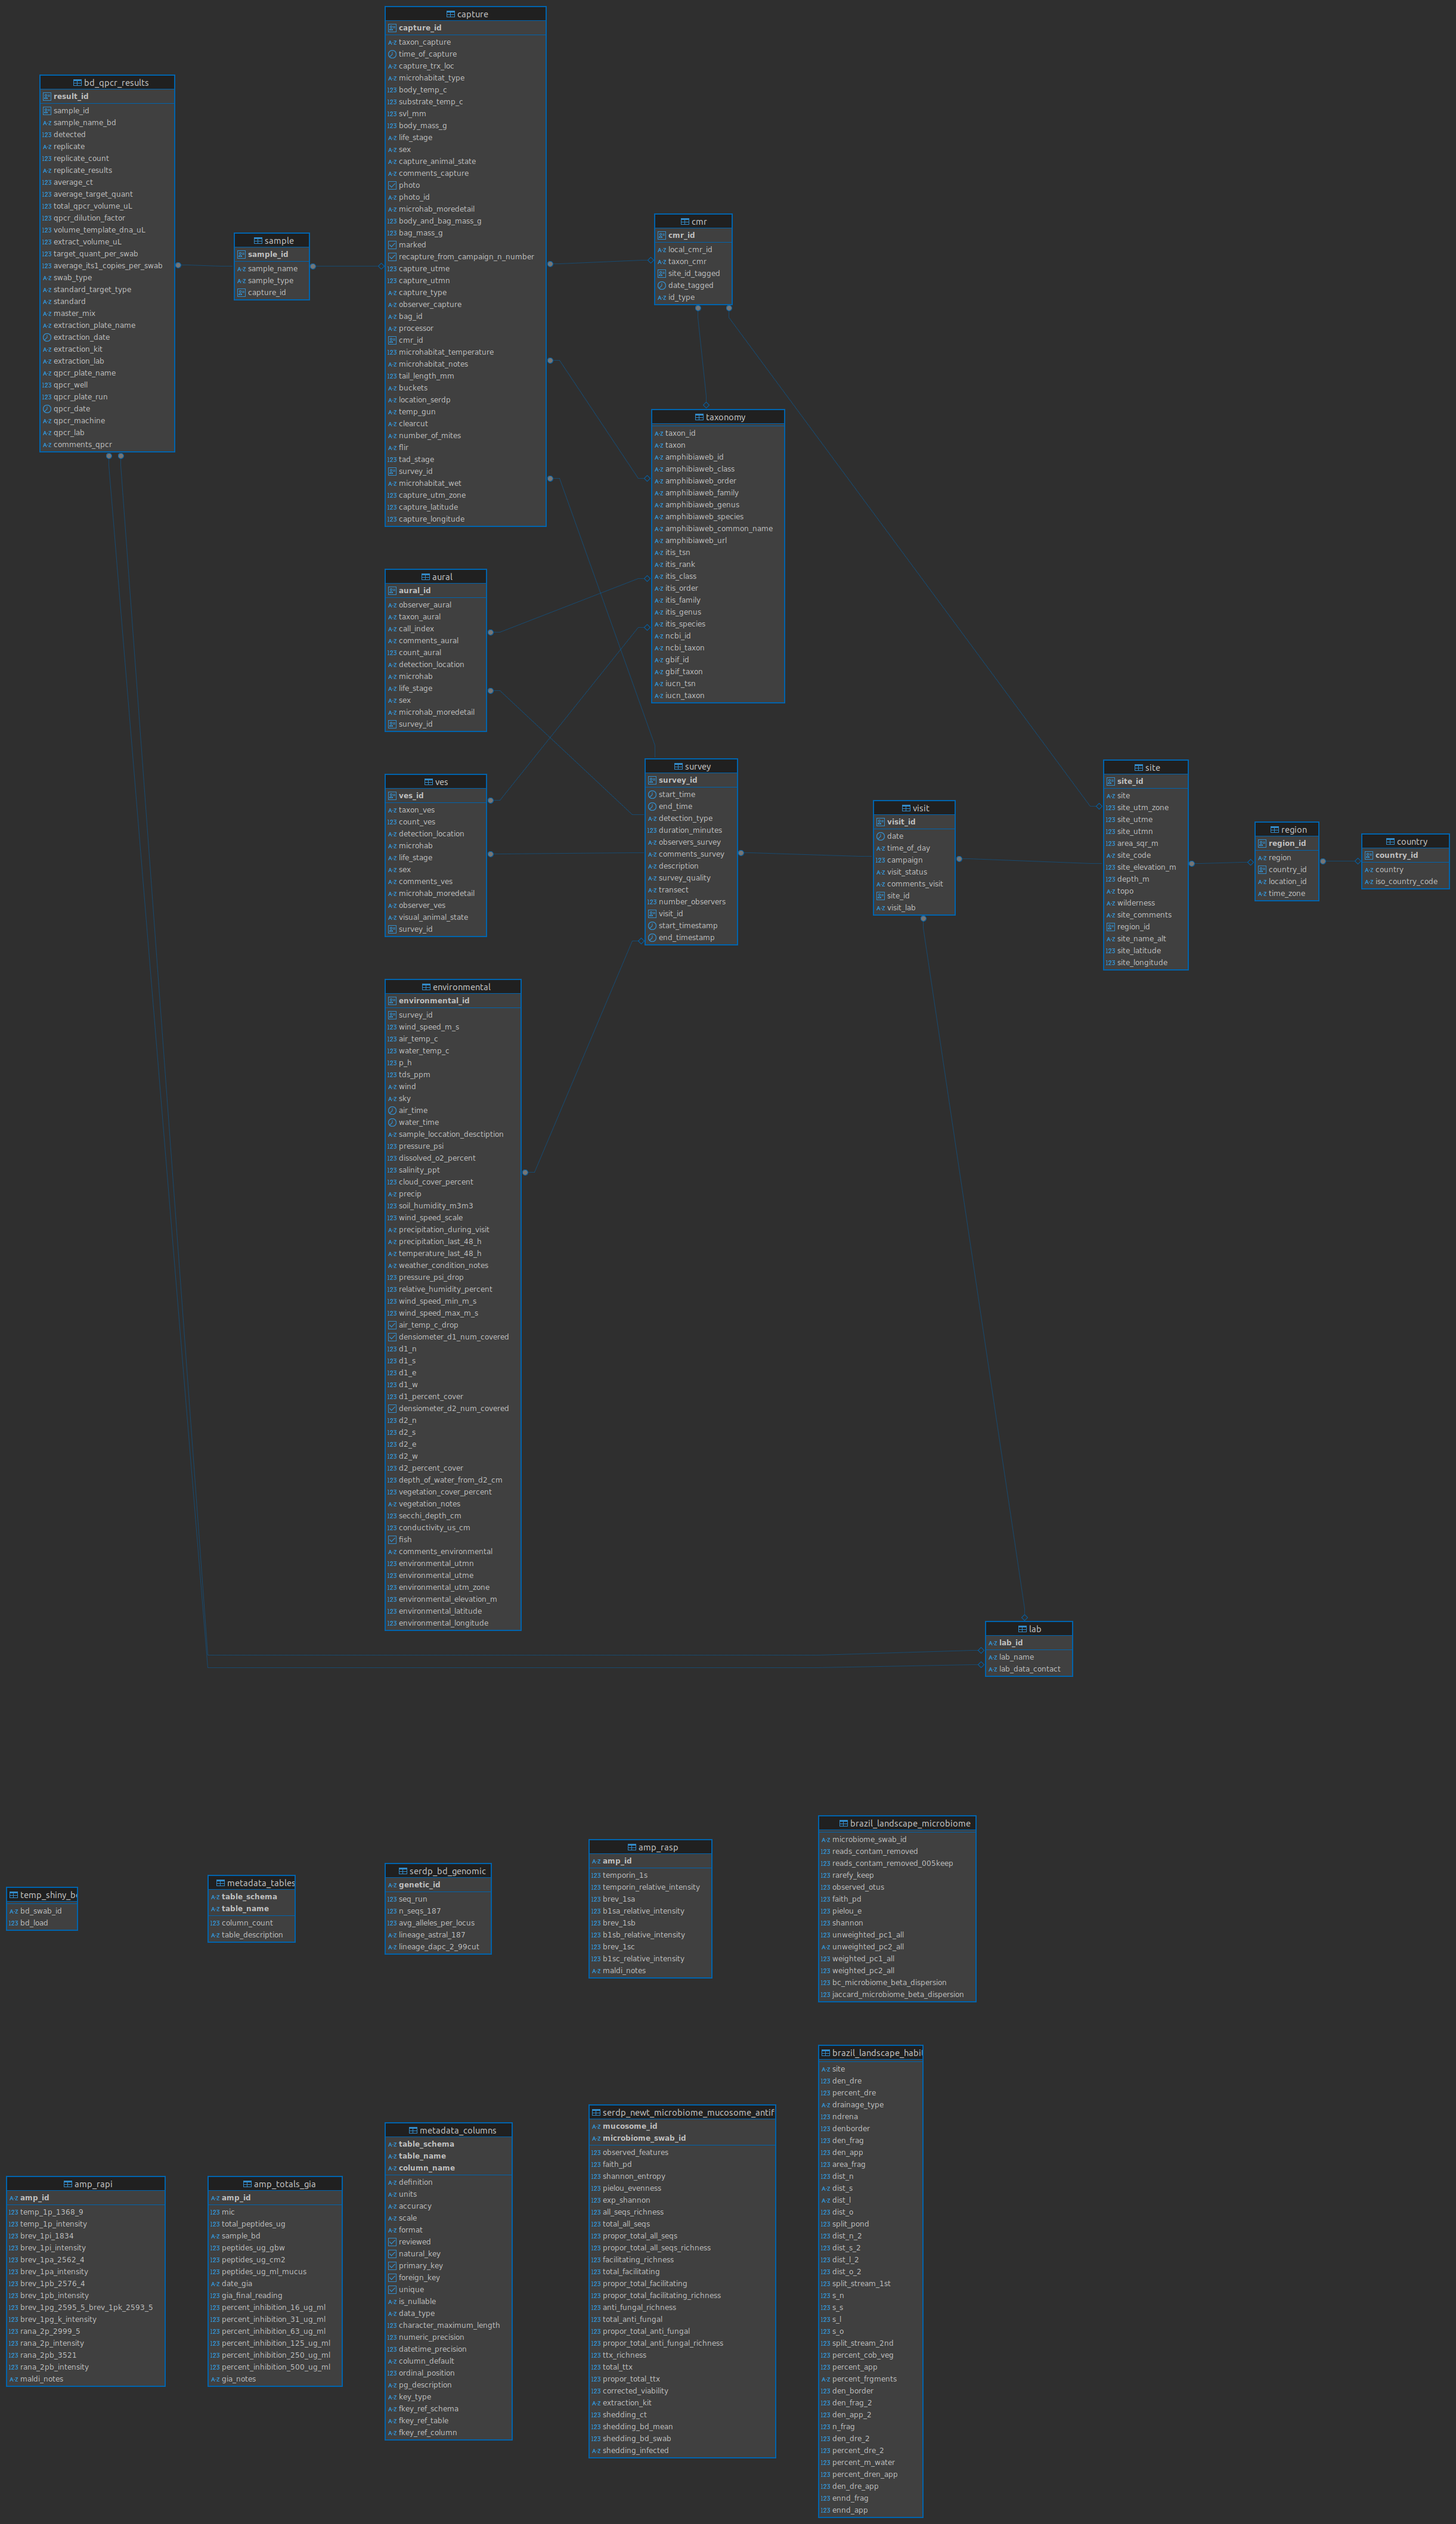
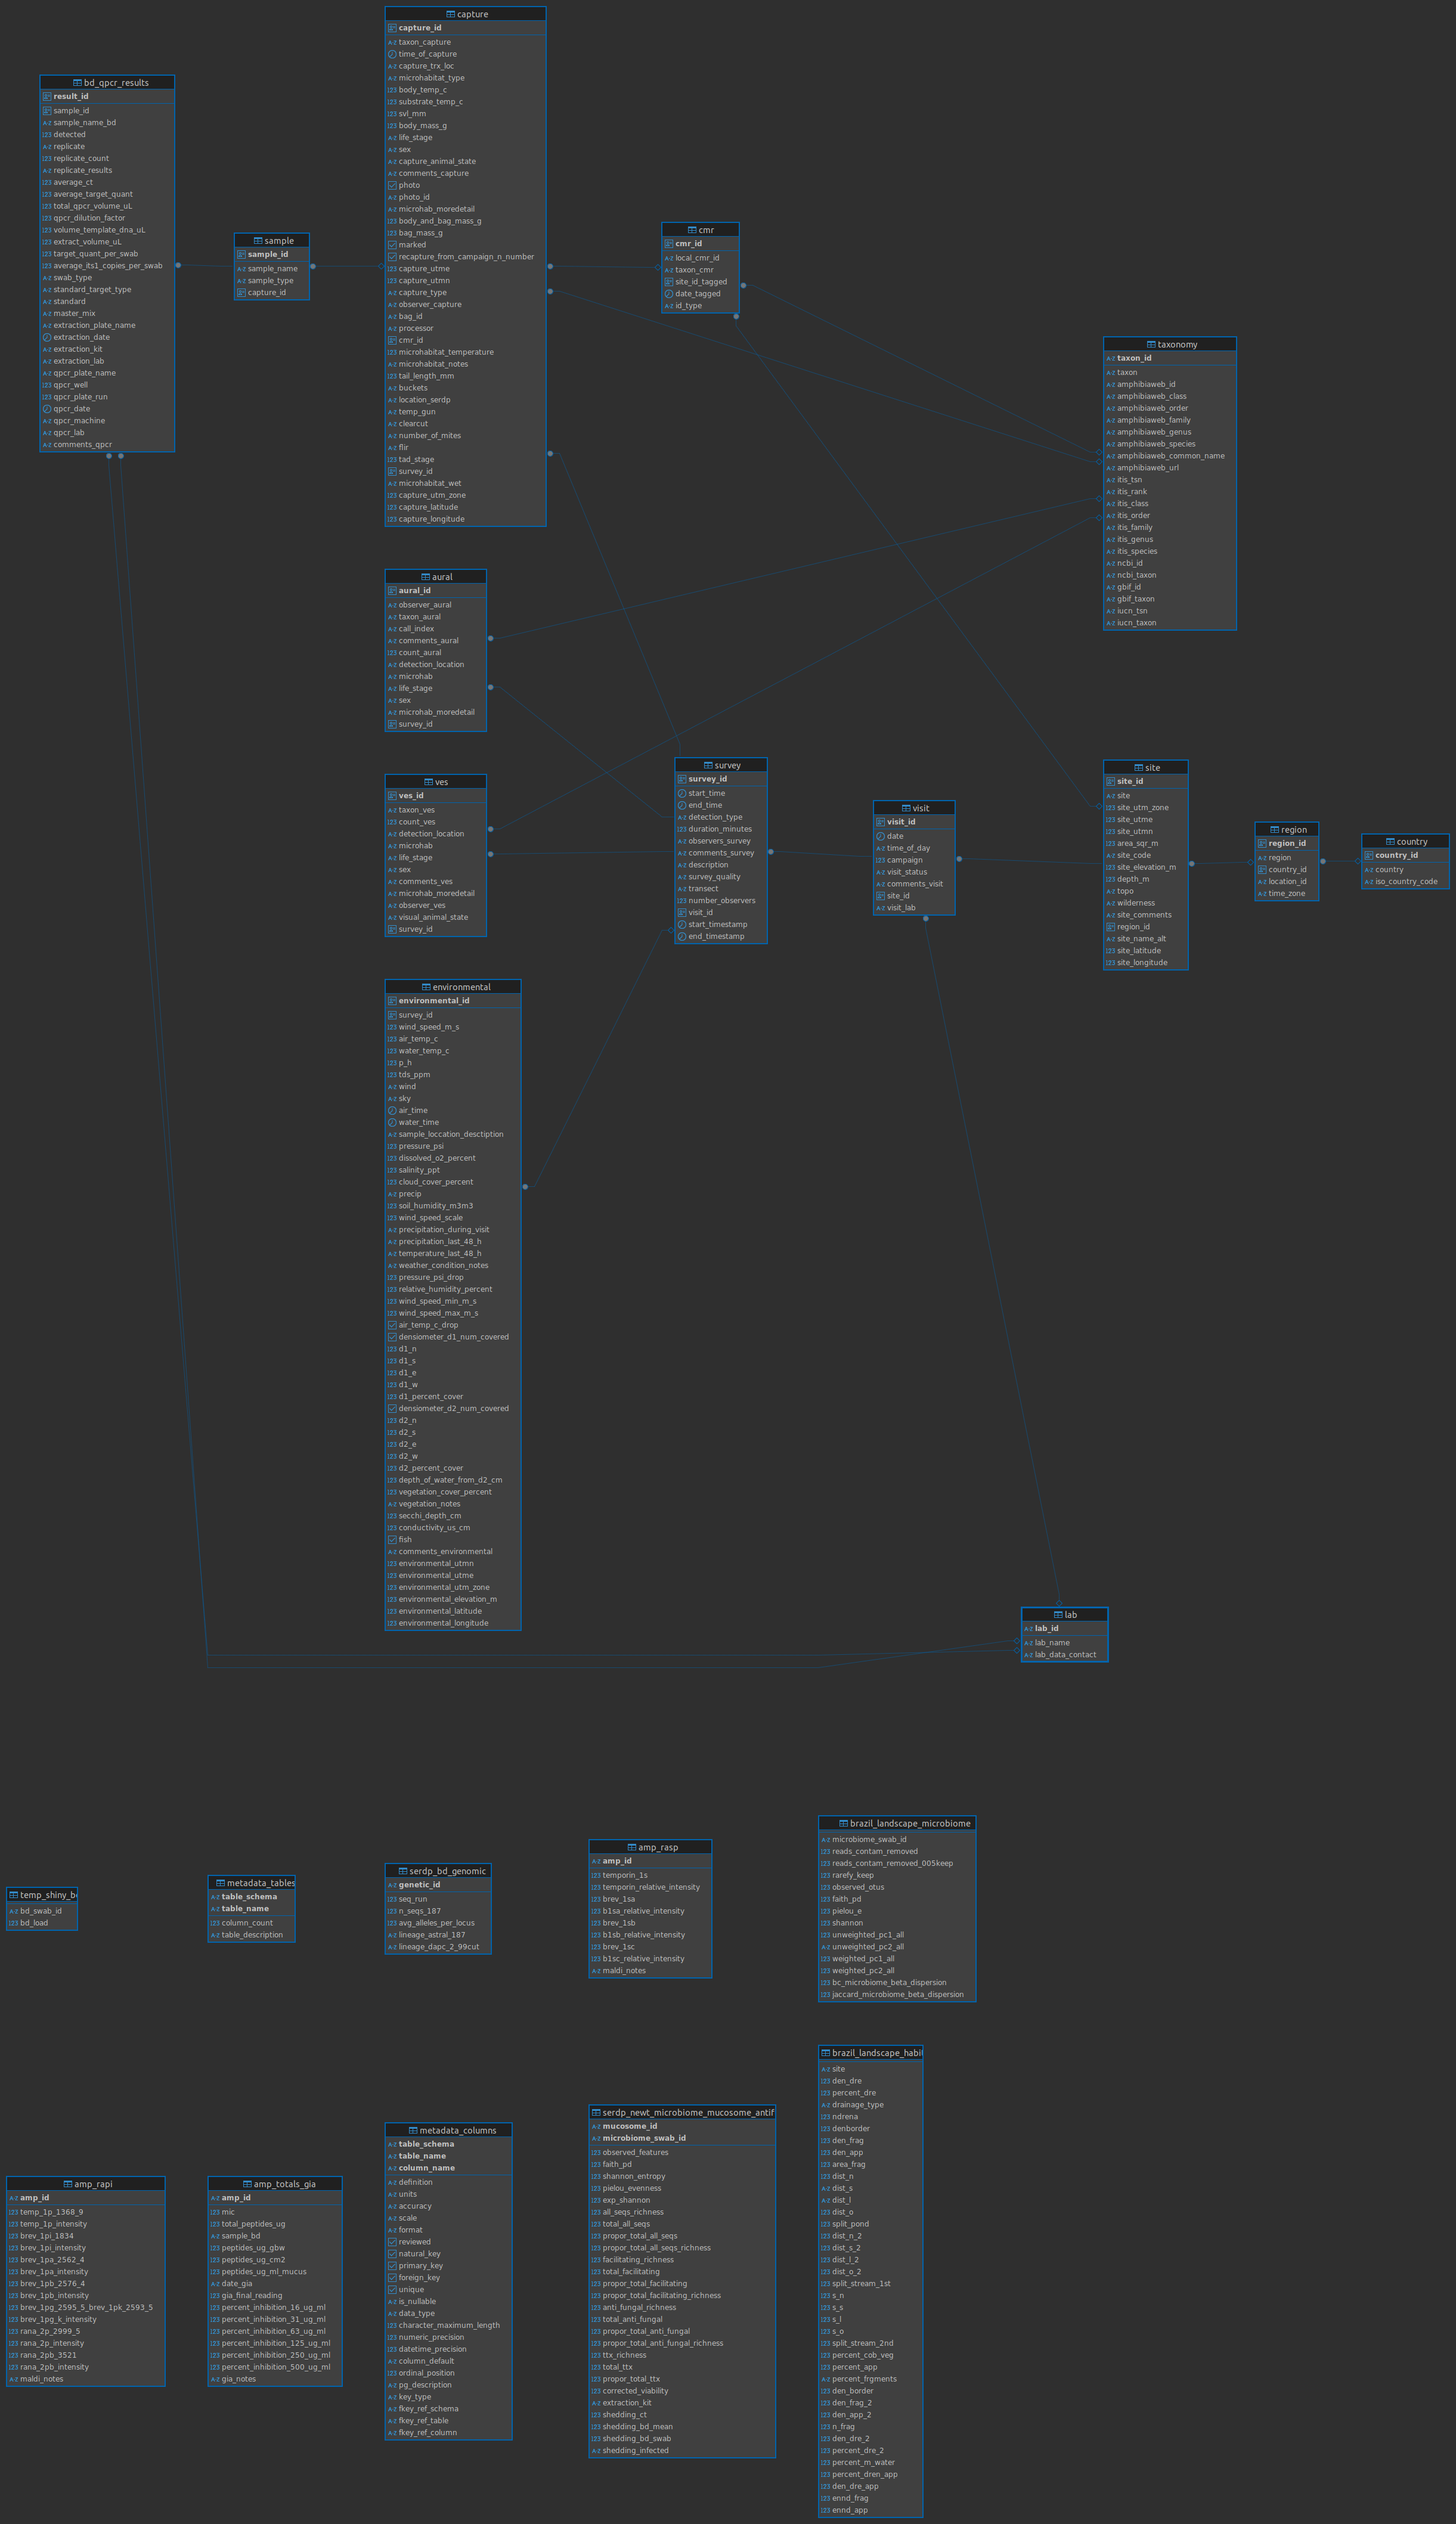
update changelog

diff --git a/docs/resources/db_changelog.html b/docs/resources/db_changelog.html
@@ -222,18 +222,19 @@ ul.task-list li input[type="checkbox"] {
   <ul>
   <li><a href="#change-log-for-ribbitr_db" id="toc-change-log-for-ribbitr_db" class="nav-link active" data-scroll-target="#change-log-for-ribbitr_db">Change Log for RIBBiTR_DB</a>
   <ul class="collapse">
-  <li><a href="#section" id="toc-section" class="nav-link" data-scroll-target="#section">2025-01-03</a>
+  <li><a href="#section" id="toc-section" class="nav-link" data-scroll-target="#section">2025-01-13</a>
   <ul class="collapse">
   <li><a href="#added" id="toc-added" class="nav-link" data-scroll-target="#added">Added</a></li>
+  <li><a href="#changed" id="toc-changed" class="nav-link" data-scroll-target="#changed">Changed</a></li>
   </ul></li>
   <li><a href="#section-1" id="toc-section-1" class="nav-link" data-scroll-target="#section-1">2025-01-03</a>
   <ul class="collapse">
-  <li><a href="#changed" id="toc-changed" class="nav-link" data-scroll-target="#changed">Changed</a></li>
+  <li><a href="#changed-1" id="toc-changed-1" class="nav-link" data-scroll-target="#changed-1">Changed</a></li>
   </ul></li>
   <li><a href="#section-2" id="toc-section-2" class="nav-link" data-scroll-target="#section-2">2024-12-13</a>
   <ul class="collapse">
   <li><a href="#added-1" id="toc-added-1" class="nav-link" data-scroll-target="#added-1">Added</a></li>
-  <li><a href="#changed-1" id="toc-changed-1" class="nav-link" data-scroll-target="#changed-1">Changed</a></li>
+  <li><a href="#changed-2" id="toc-changed-2" class="nav-link" data-scroll-target="#changed-2">Changed</a></li>
   </ul></li>
   <li><a href="#section-3" id="toc-section-3" class="nav-link" data-scroll-target="#section-3">2024-12-02</a>
   <ul class="collapse">
@@ -243,20 +244,20 @@ ul.task-list li input[type="checkbox"] {
   <li><a href="#section-5" id="toc-section-5" class="nav-link" data-scroll-target="#section-5">2024-11-19</a>
   <ul class="collapse">
   <li><a href="#added-3" id="toc-added-3" class="nav-link" data-scroll-target="#added-3">Added</a></li>
-  <li><a href="#changed-2" id="toc-changed-2" class="nav-link" data-scroll-target="#changed-2">Changed</a></li>
+  <li><a href="#changed-3" id="toc-changed-3" class="nav-link" data-scroll-target="#changed-3">Changed</a></li>
   </ul></li>
   <li><a href="#section-6" id="toc-section-6" class="nav-link" data-scroll-target="#section-6">2024-11-13</a>
   <ul class="collapse">
-  <li><a href="#changed-3" id="toc-changed-3" class="nav-link" data-scroll-target="#changed-3">Changed</a></li>
+  <li><a href="#changed-4" id="toc-changed-4" class="nav-link" data-scroll-target="#changed-4">Changed</a></li>
   </ul></li>
   <li><a href="#section-7" id="toc-section-7" class="nav-link" data-scroll-target="#section-7">2024-11-07</a>
   <ul class="collapse">
-  <li><a href="#changed-4" id="toc-changed-4" class="nav-link" data-scroll-target="#changed-4">Changed</a></li>
+  <li><a href="#changed-5" id="toc-changed-5" class="nav-link" data-scroll-target="#changed-5">Changed</a></li>
   <li><a href="#added-4" id="toc-added-4" class="nav-link" data-scroll-target="#added-4">Added</a></li>
   </ul></li>
   <li><a href="#section-8" id="toc-section-8" class="nav-link" data-scroll-target="#section-8">2024-10-31</a>
   <ul class="collapse">
-  <li><a href="#changed-5" id="toc-changed-5" class="nav-link" data-scroll-target="#changed-5">Changed</a></li>
+  <li><a href="#changed-6" id="toc-changed-6" class="nav-link" data-scroll-target="#changed-6">Changed</a></li>
   </ul></li>
   <li><a href="#section-9" id="toc-section-9" class="nav-link" data-scroll-target="#section-9">2024-10-18</a>
   <ul class="collapse">
@@ -264,7 +265,7 @@ ul.task-list li input[type="checkbox"] {
   </ul></li>
   <li><a href="#section-10" id="toc-section-10" class="nav-link" data-scroll-target="#section-10">2024-10-17</a>
   <ul class="collapse">
-  <li><a href="#changed-6" id="toc-changed-6" class="nav-link" data-scroll-target="#changed-6">Changed</a></li>
+  <li><a href="#changed-7" id="toc-changed-7" class="nav-link" data-scroll-target="#changed-7">Changed</a></li>
   </ul></li>
   <li><a href="#section-11" id="toc-section-11" class="nav-link" data-scroll-target="#section-11">2024-10-11</a>
   <ul class="collapse">
@@ -317,7 +318,7 @@ ul.task-list li input[type="checkbox"] {
 <section id="change-log-for-ribbitr_db" class="level1">
 <h1>Change Log for RIBBiTR_DB</h1>
 <section id="section" class="level2">
-<h2 class="anchored" data-anchor-id="section">2025-01-03</h2>
+<h2 class="anchored" data-anchor-id="section">2025-01-13</h2>
 <section id="added" class="level3">
 <h3 class="anchored" data-anchor-id="added">Added</h3>
 <ul>
@@ -325,11 +326,21 @@ ul.task-list li input[type="checkbox"] {
 <li>table: survey_data.lab</li>
 </ul>
 </section>
+<section id="changed" class="level3">
+<h3 class="anchored" data-anchor-id="changed">Changed</h3>
+<ul>
+<li>column names changed from “species” to “taxon” to reflect that some data reflect taxa at higher ranks than species (genus, etc.)</li>
+<li>survey_data.aural.taxon_aural &lt;- survey_data.aural.species_aural</li>
+<li>survey_data.capture.taxon_capture &lt;- survey_data.capture.species_capture</li>
+<li>survey_data.cmr.taxon_cmr &lt;- survey_data.cmr.species_cmr</li>
+<li>survey_data.ves.taxon_ves &lt;- survey_data.ves.species_ves</li>
+</ul>
+</section>
 </section>
 <section id="section-1" class="level2">
 <h2 class="anchored" data-anchor-id="section-1">2025-01-03</h2>
-<section id="changed" class="level3">
-<h3 class="anchored" data-anchor-id="changed">Changed</h3>
+<section id="changed-1" class="level3">
+<h3 class="anchored" data-anchor-id="changed-1">Changed</h3>
 <ul>
 <li>lat/lon coordinates calculated for all spatial data</li>
 <li>site table
@@ -398,8 +409,8 @@ ul.task-list li input[type="checkbox"] {
 </ul></li>
 </ul>
 </section>
-<section id="changed-1" class="level3">
-<h3 class="anchored" data-anchor-id="changed-1">Changed</h3>
+<section id="changed-2" class="level3">
+<h3 class="anchored" data-anchor-id="changed-2">Changed</h3>
 <ul>
 <li>added/renamed metadata columns to bd_qpcr_results
 <ul>
@@ -515,8 +526,8 @@ ul.task-list li input[type="checkbox"] {
 </ul></li>
 </ul>
 </section>
-<section id="changed-2" class="level3">
-<h3 class="anchored" data-anchor-id="changed-2">Changed</h3>
+<section id="changed-3" class="level3">
+<h3 class="anchored" data-anchor-id="changed-3">Changed</h3>
 <ul>
 <li>visit.time_of_day &lt;- visit.survey_time
 <ul>
@@ -534,8 +545,8 @@ ul.task-list li input[type="checkbox"] {
 </section>
 <section id="section-6" class="level2">
 <h2 class="anchored" data-anchor-id="section-6">2024-11-13</h2>
-<section id="changed-3" class="level3">
-<h3 class="anchored" data-anchor-id="changed-3">Changed</h3>
+<section id="changed-4" class="level3">
+<h3 class="anchored" data-anchor-id="changed-4">Changed</h3>
 <ul>
 <li>survey.start_time established as natural key (along with survey.visit_id and survey.detection_type)</li>
 </ul>
@@ -543,8 +554,8 @@ ul.task-list li input[type="checkbox"] {
 </section>
 <section id="section-7" class="level2">
 <h2 class="anchored" data-anchor-id="section-7">2024-11-07</h2>
-<section id="changed-4" class="level3">
-<h3 class="anchored" data-anchor-id="changed-4">Changed</h3>
+<section id="changed-5" class="level3">
+<h3 class="anchored" data-anchor-id="changed-5">Changed</h3>
 <ul>
 <li>bd_qpcr_results &lt;- qpcr_bd_results</li>
 <li>country &lt;- location
@@ -569,8 +580,8 @@ ul.task-list li input[type="checkbox"] {
 </section>
 <section id="section-8" class="level2">
 <h2 class="anchored" data-anchor-id="section-8">2024-10-31</h2>
-<section id="changed-5" class="level3">
-<h3 class="anchored" data-anchor-id="changed-5">Changed</h3>
+<section id="changed-6" class="level3">
+<h3 class="anchored" data-anchor-id="changed-6">Changed</h3>
 <ul>
 <li>Dropped visits with NULL date</li>
 <li>Created not null constraint on
@@ -594,8 +605,8 @@ ul.task-list li input[type="checkbox"] {
 </section>
 <section id="section-10" class="level2">
 <h2 class="anchored" data-anchor-id="section-10">2024-10-17</h2>
-<section id="changed-6" class="level3">
-<h3 class="anchored" data-anchor-id="changed-6">Changed</h3>
+<section id="changed-7" class="level3">
+<h3 class="anchored" data-anchor-id="changed-7">Changed</h3>
 <ul>
 <li>Renamed possibly ambiguous columns in multiple tables in survey_data schema
 <ul>

diff --git a/resources/db_changelog.md b/resources/db_changelog.md
@@ -14,6 +14,13 @@ editor: source
 -   table: survey_data.taxonomy
 -   table: survey_data.lab
 
+### Changed
+-   column names changed from "species" to "taxon" to reflect that some data reflect taxa at higher ranks than species (genus, etc.)
+  -   survey_data.aural.taxon_aural <- survey_data.aural.species_aural
+  -   survey_data.capture.taxon_capture <- survey_data.capture.species_capture
+  -   survey_data.cmr.taxon_cmr <- survey_data.cmr.species_cmr
+  -   survey_data.ves.taxon_ves <- survey_data.ves.species_ves
+
 ## 2025-01-03
 
 ### Changed
